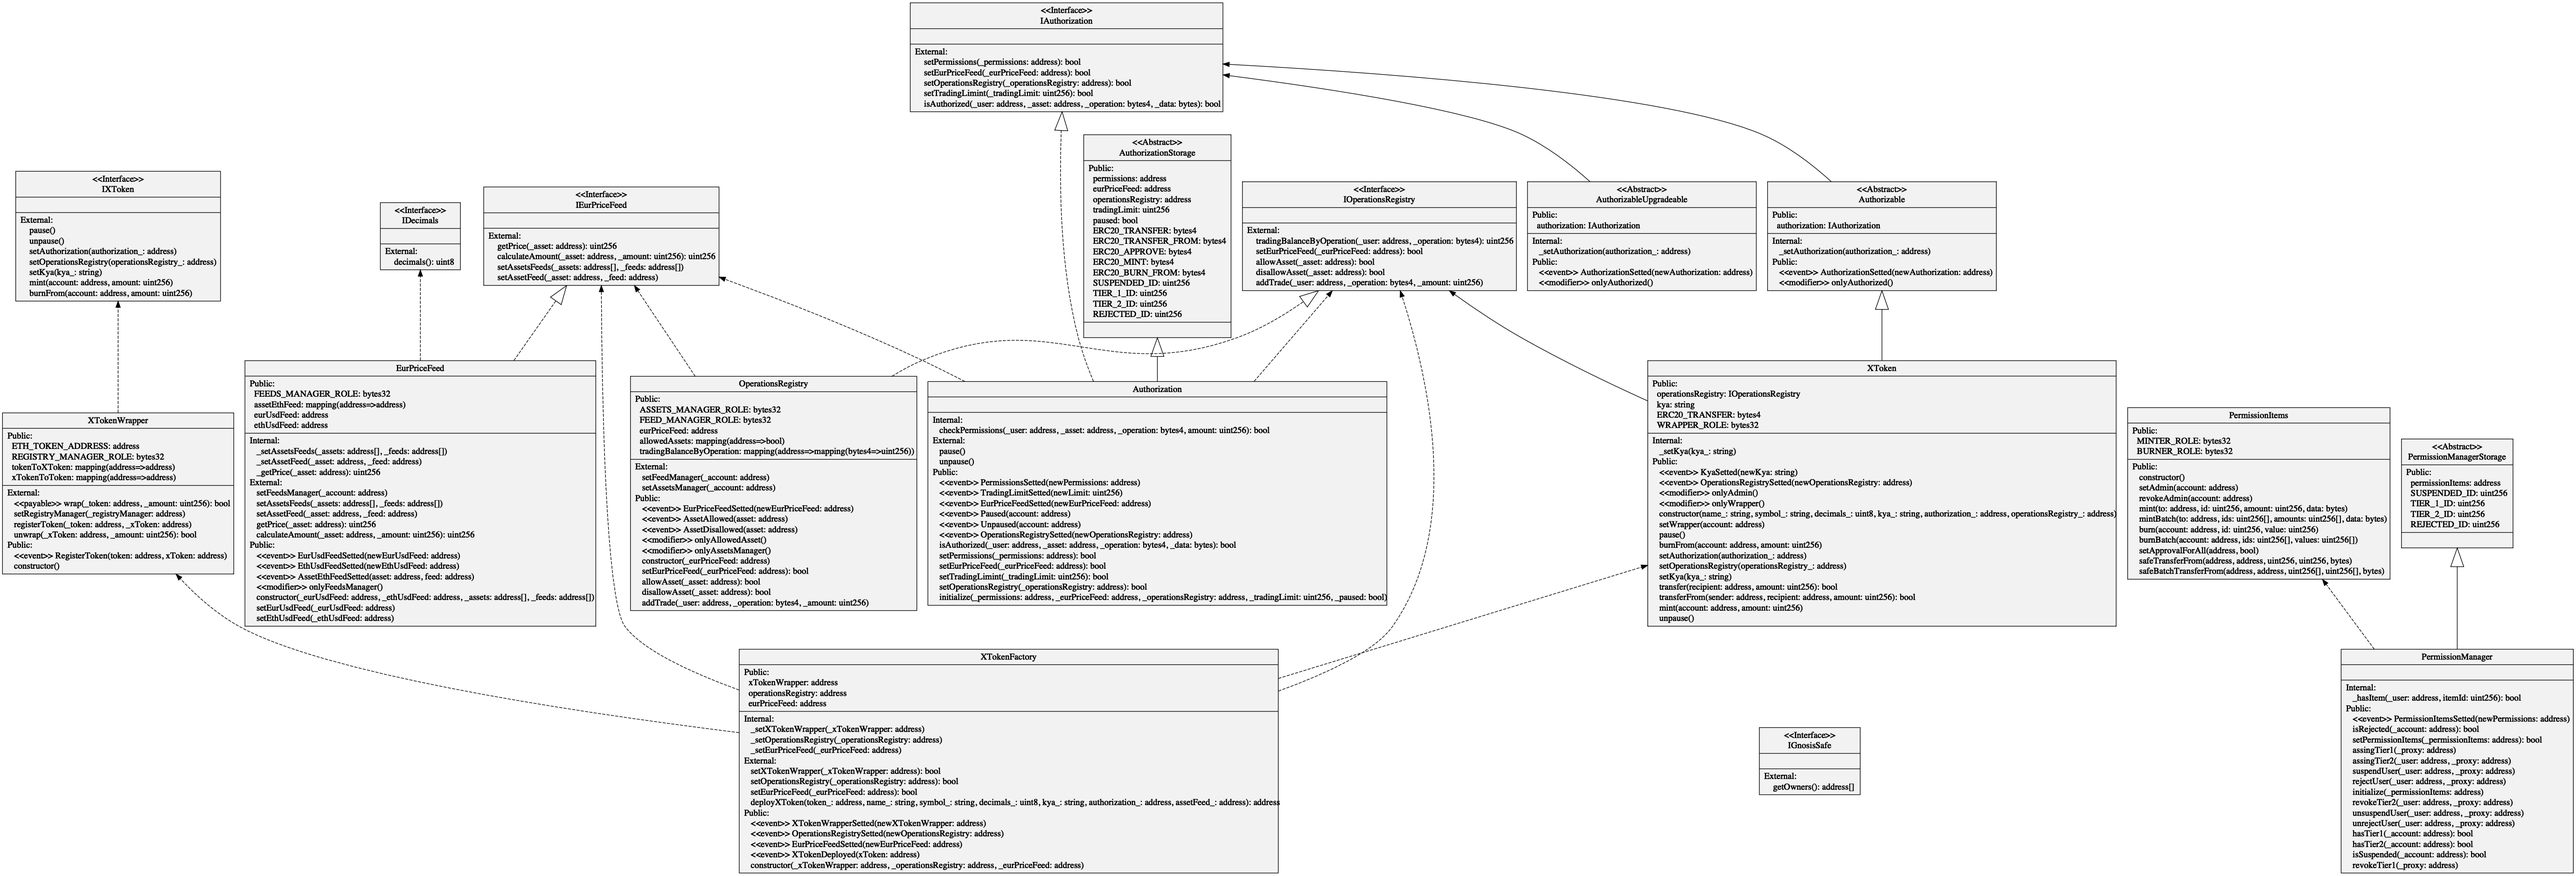
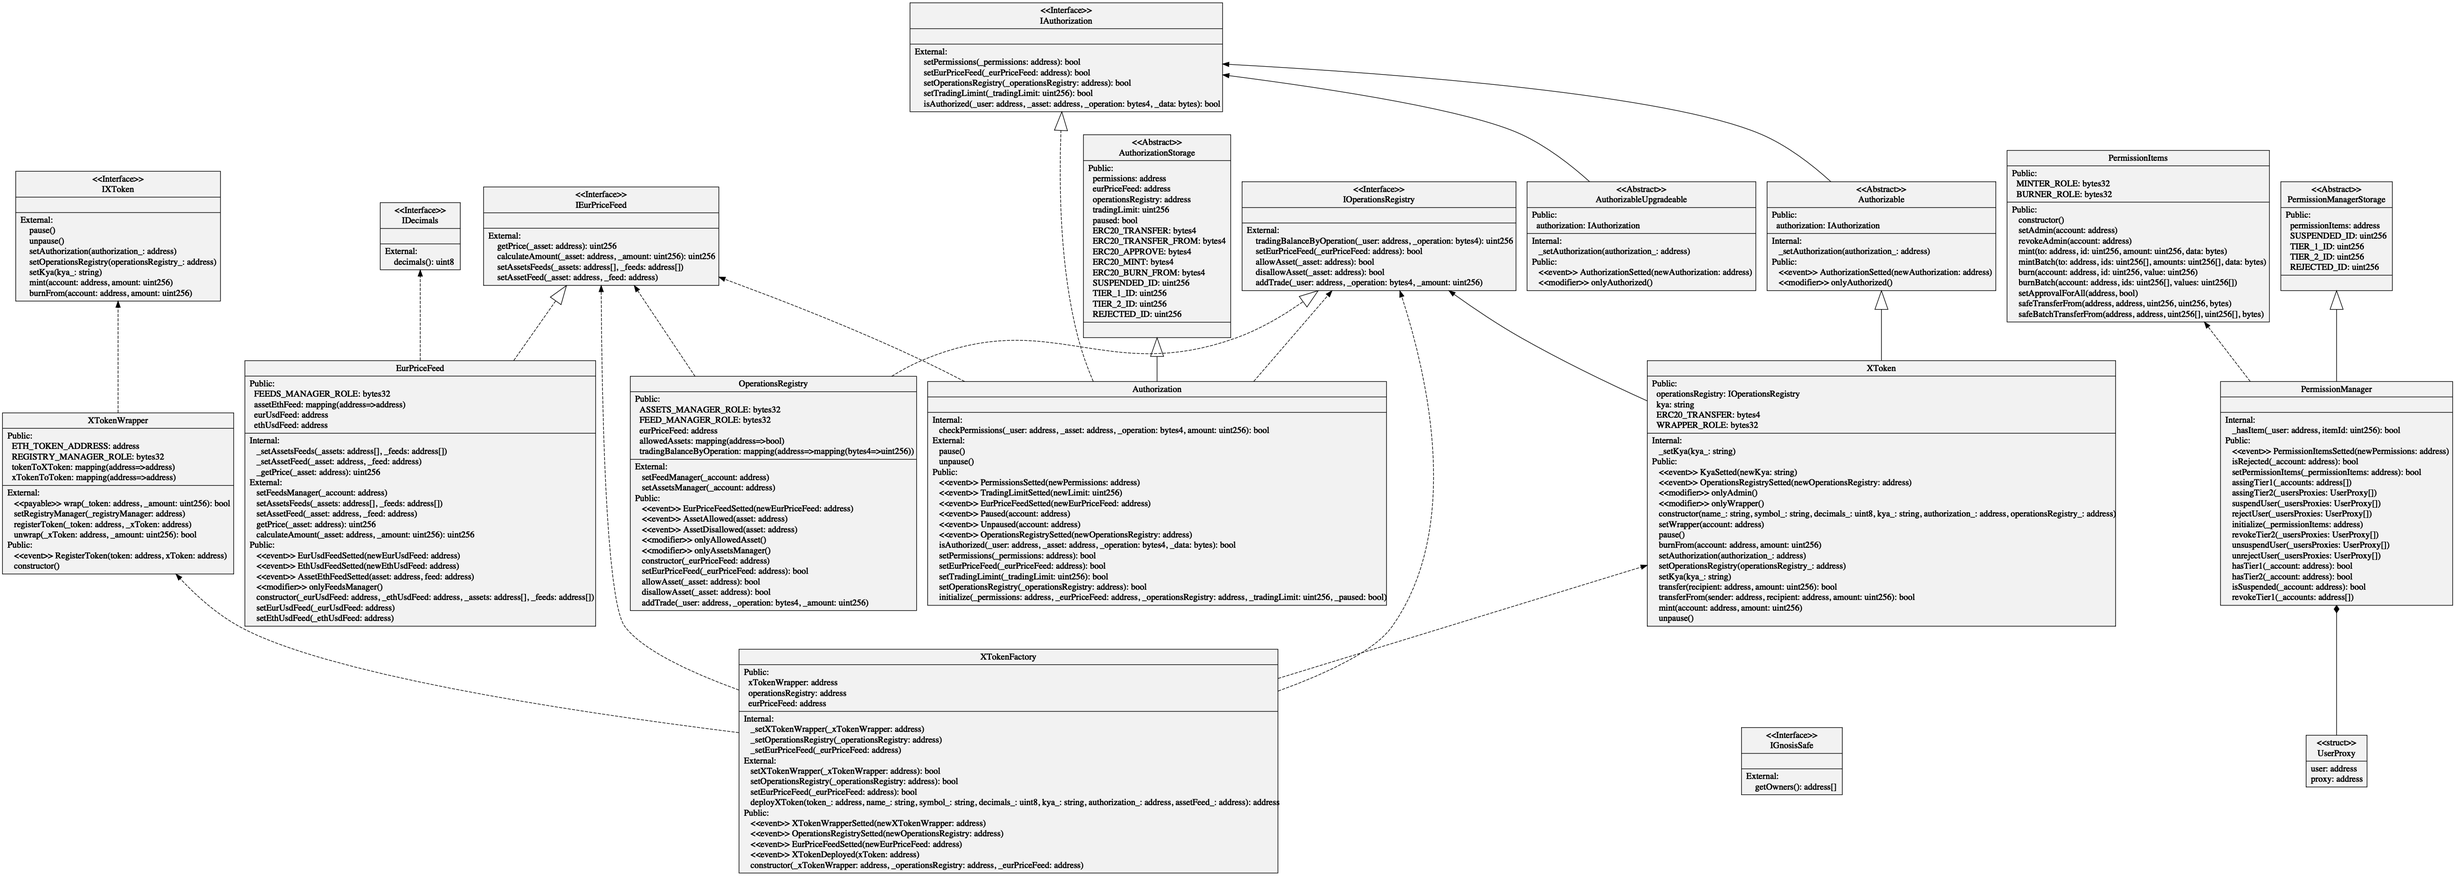
Update docs

diff --git a/docs/contracts/permissioning/permissionmanager.md b/docs/contracts/permissioning/permissionmanager.md
@@ -8,21 +8,21 @@ Provide tier based permissions assignments and revoking functions
 
 - `setPermissionItems(address _permissionItems) (public)`
 
-- `assingTier1(address _proxy) (public)`
+- `assingTier1(address[] _accounts) (public)`
 
-- `assingTier2(address _user, address _proxy) (public)`
+- `assingTier2(struct PermissionManager.UserProxy[] _usersProxies) (public)`
 
-- `suspendUser(address _user, address _proxy) (public)`
+- `suspendUser(struct PermissionManager.UserProxy[] _usersProxies) (public)`
 
-- `rejectUser(address _user, address _proxy) (public)`
+- `rejectUser(struct PermissionManager.UserProxy[] _usersProxies) (public)`
 
-- `revokeTier1(address _proxy) (public)`
+- `revokeTier1(address[] _accounts) (public)`
 
-- `revokeTier2(address _user, address _proxy) (public)`
+- `revokeTier2(struct PermissionManager.UserProxy[] _usersProxies) (public)`
 
-- `unsuspendUser(address _user, address _proxy) (public)`
+- `unsuspendUser(struct PermissionManager.UserProxy[] _usersProxies) (public)`
 
-- `unrejectUser(address _user, address _proxy) (public)`
+- `unrejectUser(struct PermissionManager.UserProxy[] _usersProxies) (public)`
 
 - `_hasItem(address _user, uint256 itemId) (internal)`
 
@@ -66,131 +66,149 @@ Requirements:
 
 - `_permissionItems`: The address of the new Pemissions module.
 
-### Function `assingTier1(address _proxy) public`
+### Function `assingTier1(address[] _accounts) public`
 
-assigns Tier1 permission to user's `_proxy`.
-
-Requirements:
-
-- the caller must be the owner.
-
-- `_proxy` should not have Tier1 already assigned.
-
-#### Parameters:
-
-- `_proxy`: The address of the user's proxy.
-
-### Function `assingTier2(address _user, address _proxy) public`
-
-assigns Tier2 permission to `_user` and its `_proxy`.
+assigns Tier1 permission to the list `_accounts`.
 
 Requirements:
 
 - the caller must be the owner.
 
-- `_user` should not have Tier2 already assigned.
-
-- `_proxy` should not have Tier2 already assigned.
+- each address in `_accounts` should not have Tier1 already assigned.
 
 #### Parameters:
 
-- `_user`: The address of the user.
+- `_accounts`: The addresses to assign Tier1.
 
-- `_proxy`: The address of the user's proxy.
+### Function `assingTier2(struct PermissionManager.UserProxy[] _usersProxies) public`
 
-### Function `suspendUser(address _user, address _proxy) public`
-
-suspends pemissions effects on `_user`.
+assigns Tier2 permission to a list of users and proxies.
 
 Requirements:
 
 - the caller must be the owner.
 
-- `_user` should not be already suspended.
+- All user addresses in `_usersProxies` should not have Tier2 already assigned.
+
+- All proxy addresses in `_usersProxies` should not have Tier2 already assigned.
 
 #### Parameters:
 
-- `_user`: The address of the user.
+- `_usersProxies`: The addresses of the users and proxies.
 
-- `_proxy`: [Optional] The address of the user's proxy if it is not address zero.
+                     An array of the struct UserProxy where user and proxy are bout required.
 
-### Function `rejectUser(address _user, address _proxy) public`
+### Function `suspendUser(struct PermissionManager.UserProxy[] _usersProxies) public`
 
-Assigns Reject permission to `_user`.
+suspends pemissions effects to a list of users and proxies.
 
 Requirements:
 
 - the caller must be the owner.
 
-- `_user` should not be already rejected.
+- All user addresses in `_usersProxies` should not be already suspended.
+
+- All proxy addresses in `_usersProxies` should not be already suspended.
 
 #### Parameters:
 
-- `_user`: The address of the user.
+- `_usersProxies`: The addresses of the users and proxies.
 
-- `_proxy`: [Optional] The address of the user's proxy if it is not address zero.
+                     An array of the struct UserProxy where is required
 
-### Function `revokeTier1(address _proxy) public`
+                     but proxy can be optional if it is set to zero address.
 
-removes Tier1 permission user's `_proxy`.
+### Function `rejectUser(struct PermissionManager.UserProxy[] _usersProxies) public`
+
+Assigns Reject permission to a list of users and proxies.
 
 Requirements:
 
 - the caller must be the owner.
 
-- `_proxy` should have Tier1 assigned.
+- All user addresses in `_usersProxies` should not be already rejected.
+
+- All proxy addresses in `_usersProxies` should not be already rejected.
 
 #### Parameters:
 
-- `_proxy`: The address of the user's proxy.
+- `_usersProxies`: The addresses of the users and proxies.
 
-### Function `revokeTier2(address _user, address _proxy) public`
+                     An array of the struct UserProxy where is required
 
-removes Tier2 permission from `_user` and its `_proxy`.
+                     but proxy can be optional if it is set to zero address.
+
+### Function `revokeTier1(address[] _accounts) public`
+
+removes Tier1 permission from the list `_accounts`.
 
 Requirements:
 
 - the caller must be the owner.
 
-- `_user` should have Tier2 assigned.
+- each address in `_accounts` should have Tier1 assigned.
 
 #### Parameters:
 
-- `_user`: The address of the user.
+- `_accounts`: The addresses to revoke Tier1.
 
-- `_proxy`: The address of the user's proxy.
+### Function `revokeTier2(struct PermissionManager.UserProxy[] _usersProxies) public`
 
-### Function `unsuspendUser(address _user, address _proxy) public`
-
-re-activates pemissions effects on `_user`.
+removes Tier2 permission from a list of users and proxies.
 
 Requirements:
 
 - the caller must be the owner.
 
-- `_user` should be suspended.
+- All user addresses in `_usersProxies` should have Tier2 assigned.
+
+- All proxy addresses in should have Tier2 assigned.
 
 #### Parameters:
 
-- `_user`: The address of the user.
+- `_usersProxies`: The addresses of the users and proxies.
 
-- `_proxy`: [Optional] The address of the user's proxy if it is not address zero.
+                     An array of the struct UserProxy where user and proxy are bout required.
 
-### Function `unrejectUser(address _user, address _proxy) public`
+### Function `unsuspendUser(struct PermissionManager.UserProxy[] _usersProxies) public`
 
-Removes Reject permission from `_user`.
+re-activates pemissions effects on a list of users and proxies.
 
 Requirements:
 
 - the caller must be the owner.
 
-- `_user` should be rejected.
+- All user addresses in `_usersProxies` should be suspended.
+
+- All proxy addresses in `_usersProxies` should be suspended.
 
 #### Parameters:
 
-- `_user`: The address of the user.
+- `_usersProxies`: The addresses of the users and proxies.
 
-- `_proxy`: [Optional] The address of the user's proxy if it is not address zero.
+                     An array of the struct UserProxy where is required
+
+                     but proxy can be optional if it is set to zero address.
+
+### Function `unrejectUser(struct PermissionManager.UserProxy[] _usersProxies) public`
+
+Removes Reject permission from a list of users and proxies.
+
+Requirements:
+
+- the caller must be the owner.
+
+- All user addresses in `_usersProxies` should be rejected.
+
+- All proxy addresses in `_usersProxies` should be rejected.
+
+#### Parameters:
+
+- `_usersProxies`: The addresses of the users and proxies.
+
+                     An array of the struct UserProxy where is required
+
+                     but proxy can be optional if it is set to zero address.
 
 ### Function `_hasItem(address _user, uint256 itemId) → bool internal`
 
